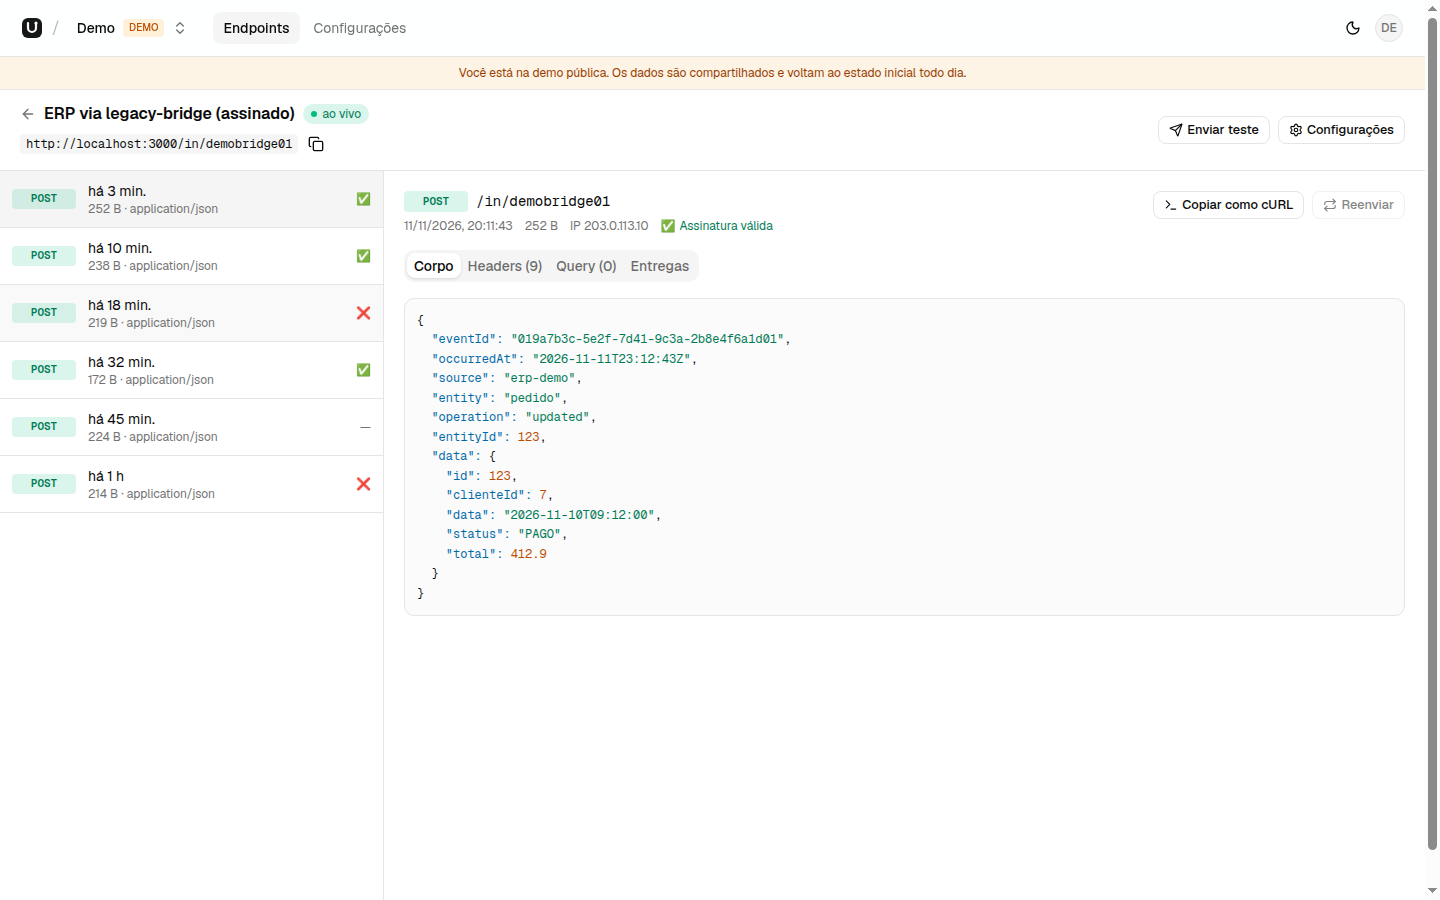
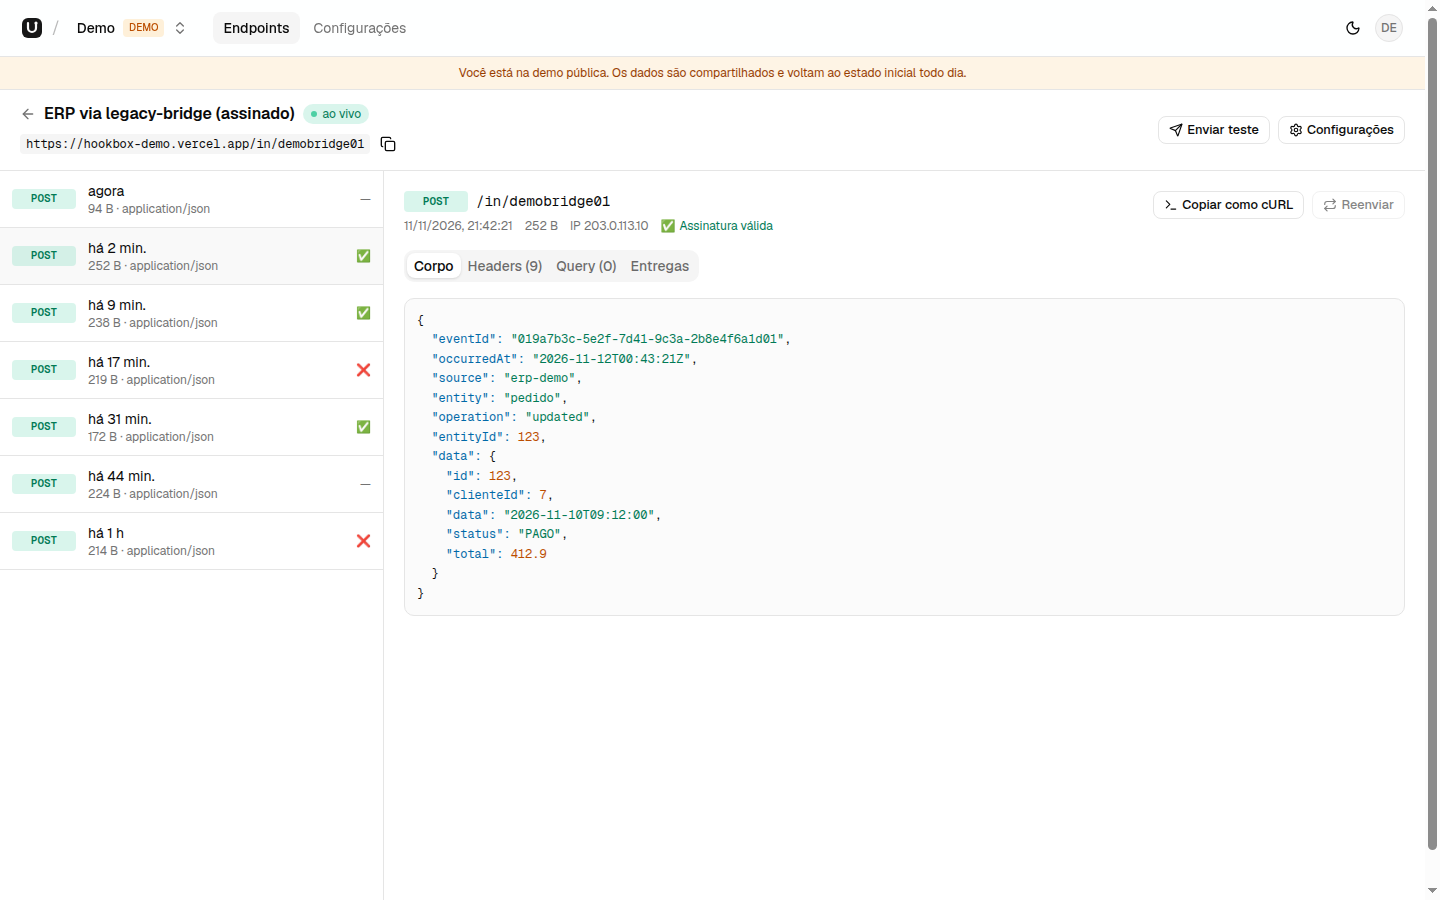
Deploy na Vercel e proteção contra loop de encaminhamento
- vercel.json: framework nextjs e funções em gru1 (mesma região do Supabase)
- env: aceita KV_REST_API_URL/TOKEN (Upstash via Vercel Marketplace)
- /in/[slug]: requisição com x-hookbox-request-id é gravada, mas não reencaminhada
- .vercelignore para nunca enviar .env* no deploy pela CLI
- Node 24 fixado em engines; README com a URL real da demo e print de produção

diff --git a/app/in/[slug]/route.ts b/app/in/[slug]/route.ts
@@ -109,8 +109,11 @@ async function handle(request: NextRequest, { params }: Context): Promise<Respon
     return json({ ok: false, error: "internal_error" }, 500, method);
   }
 
-  // 8. Encaminhamento.
-  if (endpoint.forward_enabled) {
+  // 8. Encaminhamento. Uma requisição que já veio de um encaminhamento do Hookbox
+  // (tem x-hookbox-request-id) é gravada, mas não é reencaminhada: evita loops entre
+  // endpoints, inclusive por URLs alternativas do mesmo deploy.
+  const isHookboxForward = request.headers.has("x-hookbox-request-id");
+  if (endpoint.forward_enabled && !isHookboxForward) {
     try {
       await enqueueDelivery(inserted.id);
     } catch {

diff --git a/lib/env.ts b/lib/env.ts
@@ -57,7 +57,12 @@ function parseClient(): ClientEnv {
 }
 
 function parseServer(): ServerEnv {
-  const parsed = serverSchema.safeParse(process.env);
+  const parsed = serverSchema.safeParse({
+    ...process.env,
+    // A integração do Upstash na Vercel Marketplace cria KV_REST_API_*; aceita os dois nomes.
+    UPSTASH_REDIS_REST_URL: process.env.UPSTASH_REDIS_REST_URL ?? process.env.KV_REST_API_URL,
+    UPSTASH_REDIS_REST_TOKEN: process.env.UPSTASH_REDIS_REST_TOKEN ?? process.env.KV_REST_API_TOKEN,
+  });
   if (!parsed.success) {
     throw new Error(`Variáveis de ambiente do servidor inválidas:\n${format(parsed.error)}`);
   }

diff --git a/README.md b/README.md
@@ -4,7 +4,7 @@ Caixa de entrada multi-tenant para webhooks: receba numa URL própria, inspecion
 
 [![CI](https://github.com/BernardoCusmanich/hookbox/actions/workflows/ci.yml/badge.svg)](https://github.com/BernardoCusmanich/hookbox/actions/workflows/ci.yml)
 
-**Demo ao vivo:** https://hookbox.vercel.app (botão “Entrar na demo”, sem cadastro)
+**Demo ao vivo:** https://hookbox-demo.vercel.app (botão “Entrar na demo”, sem cadastro)
 
 <!-- TODO: trocar pelo GIF do inspetor recebendo requisições em tempo real -->
 ![Inspetor do Hookbox](public/inspector.png)
@@ -50,14 +50,14 @@ x-bridge-signature = "sha256=" + hex(HMAC-SHA256(segredo, "{x-bridge-timestamp}.
 2. Aponte o agente para a URL de ingestão do endpoint:
 
    ```powershell
-   [Environment]::SetEnvironmentVariable("Bridge__Webhook__Url", "https://hookbox.vercel.app/in/<slug>", "Machine")
+   [Environment]::SetEnvironmentVariable("Bridge__Webhook__Url", "https://hookbox-demo.vercel.app/in/<slug>", "Machine")
    [Environment]::SetEnvironmentVariable("Bridge__Webhook__Secret", "<segredo do Hookbox>", "Machine")
    ```
 
    Ou, no desenvolvimento, com user-secrets:
 
    ```bash
-   dotnet user-secrets set "Bridge:Webhook:Url" "https://hookbox.vercel.app/in/<slug>"
+   dotnet user-secrets set "Bridge:Webhook:Url" "https://hookbox-demo.vercel.app/in/<slug>"
    dotnet user-secrets set "Bridge:Webhook:Secret" "<segredo do Hookbox>"
    ```
 
@@ -120,7 +120,7 @@ Outros comandos: `npm run db:types` regenera `lib/supabase/types.ts` a partir do
 2. **Upstash:** crie um banco Redis e pegue o token e as signing keys do QStash no console.
 3. **Vercel:** importe o repositório e cadastre todas as variáveis do `.env.example` (sem `QSTASH_URL`). `APP_URL` precisa ser a URL pública final, porque é ela que o QStash chama e que o `/api/deliver` usa para conferir a assinatura.
 4. Faça o deploy. O build falha se faltar alguma variável.
-5. Rode o seed apontando para produção, uma vez: `npm run seed` com as variáveis de produção num `.env.production.local`.
+5. Rode o seed apontando para produção, uma vez: `npm run seed` com as variáveis de produção num `.env.production.local`. Atenção: enquanto esse arquivo existir, ele tem prioridade sobre o `.env.local`, e o seed vai sempre para produção.
 6. O cron (`vercel.json`) roda todo dia às 03:00 UTC e chama `/api/cron/cleanup` com `Authorization: Bearer $CRON_SECRET`. A Vercel envia esse header sozinha quando a variável `CRON_SECRET` existe.
 
 ## Decisões técnicas
@@ -131,7 +131,7 @@ Outros comandos: `npm run db:types` regenera `lib/supabase/types.ts` a partir do
 
 **Por que redigir headers sensíveis.** Um inspetor de webhooks guarda dados de terceiros e mostra esses dados para todos os membros da organização. `authorization`, `cookie`, `proxy-authorization` e `x-api-key` costumam carregar credenciais de longa duração, que não ajudam a depurar e virariam um risco se fossem gravadas. Por isso viram `[redacted]` antes do INSERT e não são reenviadas no encaminhamento. Os headers `x-vercel-*` são descartados pelo mesmo motivo: a plataforma os injeta (inclusive um token OIDC do projeto) e eles não vieram do provedor. A assinatura HMAC continua funcionando, porque usa headers próprios (`x-bridge-*`).
 
-**Proteção contra SSRF.** Encaminhar para uma URL escolhida pelo usuário é um convite para alcançar a rede interna, como o metadata da cloud em `169.254.169.254`. A URL é validada ao salvar e de novo antes de cada envio: só `https`, sem usuário e senha na URL, sem o próprio domínio do Hookbox, e nenhum dos IPs resolvidos (`dns.lookup` com `all: true`) pode ser loopback, privado, link-local, CGNAT, multicast, reservado ou IPv4 embutido em IPv6. Validar só antes do fetch abre espaço para DNS rebinding (o domínio resolve para um IP público na checagem e para um interno na conexão). Por isso o envio usa um `undici.Agent` com um `lookup` próprio, que confere o IP no momento em que o socket conecta, e IP literal é checado à parte. Redirects não são seguidos (`redirect: 'manual'`) e contam como falha permanente, e cada tentativa tem timeout de 10 s.
+**Proteção contra SSRF.** Encaminhar para uma URL escolhida pelo usuário é um convite para alcançar a rede interna, como o metadata da cloud em `169.254.169.254`. A URL é validada ao salvar e de novo antes de cada envio: só `https`, sem usuário e senha na URL, sem o próprio domínio do Hookbox, e nenhum dos IPs resolvidos (`dns.lookup` com `all: true`) pode ser loopback, privado, link-local, CGNAT, multicast, reservado ou IPv4 embutido em IPv6. Validar só antes do fetch abre espaço para DNS rebinding (o domínio resolve para um IP público na checagem e para um interno na conexão). Por isso o envio usa um `undici.Agent` com um `lookup` próprio, que confere o IP no momento em que o socket conecta, e IP literal é checado à parte. Redirects não são seguidos (`redirect: 'manual'`) e contam como falha permanente, e cada tentativa tem timeout de 10 s. Para evitar loops (um endpoint encaminhando para outro, inclusive por uma URL alternativa do mesmo deploy), uma requisição que chega com `x-hookbox-request-id` é gravada, mas não é reencaminhada.
 
 **Outras escolhas.**
 - `proxy.ts` (o antigo `middleware.ts` do Next.js 16) renova a sessão, protege `/app/**` e manda para o onboarding quem ainda não tem organização.
